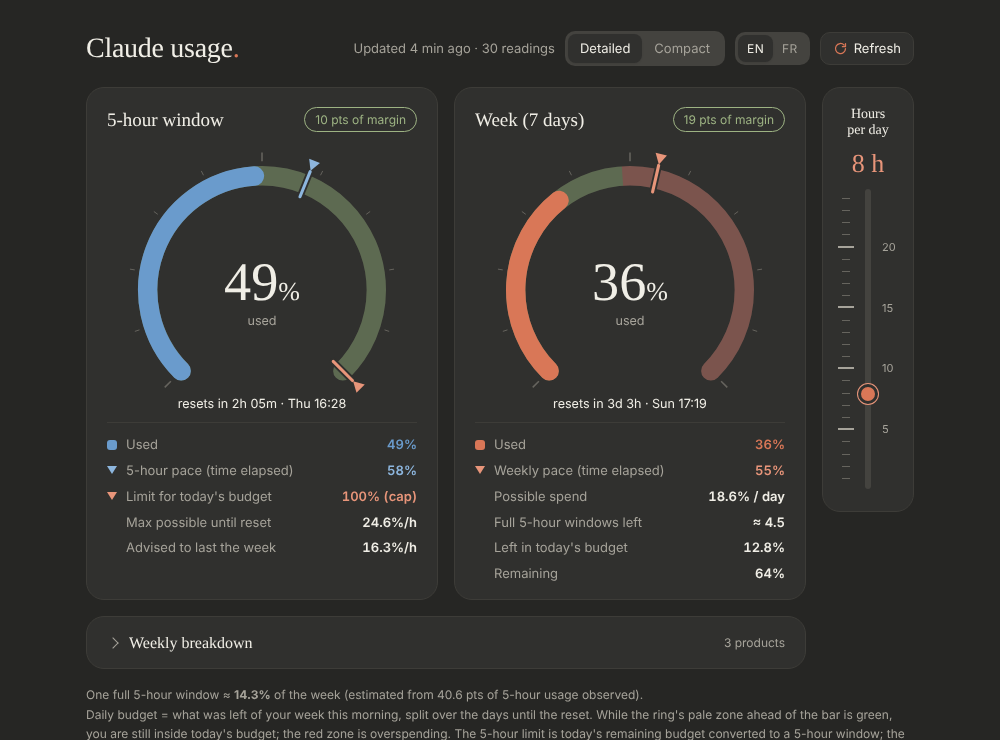
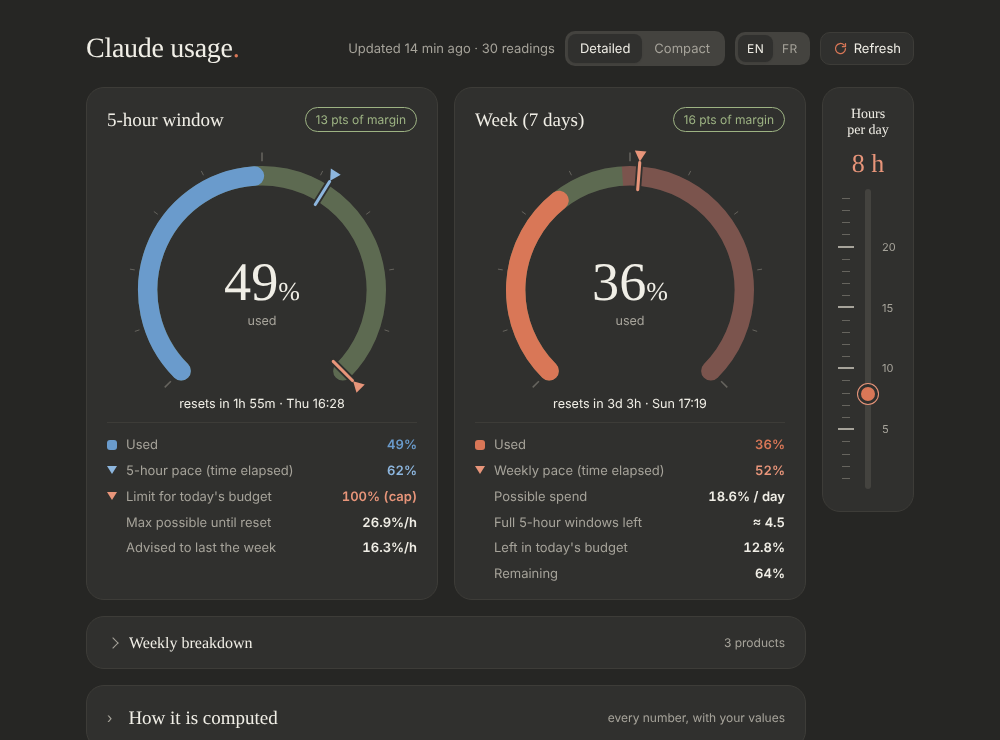
Make the weekly pace count working hours (hours-per-day slider)
A working day is the window [start, start + hours]; start is the first
reading of the day where usage rose, else 08:00. The weekly pace is the
share of the week's working hours already elapsed. Equations panel and
README updated.

Claude-Session: https://claude.ai/code/session_01F8m832QxDmb2GnzwzbQV6q

diff --git a/web/js/i18n.js b/web/js/i18n.js
@@ -71,14 +71,18 @@ window.CU = window.CU || {};
       "foot.limit": "Daily budget = what was left of your week this morning, split over the days until the reset. While the ring's pale zone ahead of the bar is green, you are still inside today's budget; the red zone is overspending. The 5-hour limit is today's remaining budget converted to a 5-hour window; the hourly pace spreads the daily budget over the hours you work (slider).",
       "formulas.title": "How it is computed",
       "formulas.hint": "every number, with your values",
-      "formulas.slider": "The hours-per-day slider only changes the row marked “slider” (the hourly pace). The two pace markers (5-hour and weekly) are pure elapsed time, so they never move with the slider; the green/red zones and the limits come from the daily budget, which does not depend on it either.",
+      "formulas.slider": "The hours-per-day slider changes the rows marked “slider”: the weekly pace (it counts working hours instead of calendar time) and the hourly pace. The 5-hour pace is real elapsed time, and the green/red zones and limits come from the daily budget, which does not depend on the slider.",
       "formulas.badge": "slider",
       "f.used.name": "Used (5 h / week)",
       "f.used.eq": "utilization % reported by Claude, for each window",
       "f.pace5.name": "5-hour pace",
       "f.pace5.eq": "(5 h − time left) / 5 h × 100",
       "f.pace7.name": "Weekly pace",
-      "f.pace7.eq": "(7 d − time left) / 7 d × 100",
+      "f.pace7.eq": "working hours elapsed this week / working hours in the week × 100 (a day = hours per day from the start time; 24 h = plain time)",
+      "f.start.name": "Start of your work day",
+      "f.start.eq": "first reading today where usage rose; 08:00 when there is none yet",
+      "f.start.auto": "(first activity)",
+      "f.start.def": "(default)",
       "f.ratio.name": "Cost of a 5-hour window",
       "f.ratio.eq": "r = % of the week used per 100 % of a 5-hour window",
       "f.ratio.est": "estimated from your readings",
@@ -175,14 +179,18 @@ window.CU = window.CU || {};
       "foot.limit": "Budget du jour = ce qui restait de ta semaine ce matin, réparti sur les jours jusqu'au reset. Tant que la zone pâle devant la barre est verte, tu restes dans le budget du jour ; la zone rouge, c'est un dépassement. La limite 5 h est le budget restant du jour converti en fenêtre 5 h ; le rythme horaire répartit le budget du jour sur les heures que tu travailles (curseur).",
       "formulas.title": "Comment c'est calculé",
       "formulas.hint": "chaque chiffre, avec tes valeurs",
-      "formulas.slider": "Le curseur d'heures par jour ne change que la ligne marquée « curseur » (le rythme horaire). Les deux marqueurs de rythme (5 h et semaine) ne dépendent que du temps écoulé : ils ne bougent donc jamais avec le curseur ; les zones vert/rouge et les limites viennent du budget du jour, qui n'en dépend pas non plus.",
+      "formulas.slider": "Le curseur d'heures par jour change les lignes marquées « curseur » : le rythme semaine (il compte les heures de travail au lieu du temps calendaire) et le rythme horaire. Le rythme 5 h est du vrai temps écoulé, et les zones vert/rouge et les limites viennent du budget du jour, qui ne dépend pas du curseur.",
       "formulas.badge": "curseur",
       "f.used.name": "Utilisé (5 h / semaine)",
       "f.used.eq": "% d'utilisation donné par Claude, pour chaque fenêtre",
       "f.pace5.name": "Rythme 5 h",
       "f.pace5.eq": "(5 h − temps restant) / 5 h × 100",
       "f.pace7.name": "Rythme semaine",
-      "f.pace7.eq": "(7 j − temps restant) / 7 j × 100",
+      "f.pace7.eq": "heures de travail écoulées cette semaine / heures de travail de la semaine × 100 (un jour = heures par jour à partir de l'heure de début ; 24 h = temps normal)",
+      "f.start.name": "Début de ta journée de travail",
+      "f.start.eq": "premier relevé du jour où la consommation a augmenté ; 08:00 s'il n'y en a pas encore",
+      "f.start.auto": "(première activité)",
+      "f.start.def": "(par défaut)",
       "f.ratio.name": "Coût d'une fenêtre 5 h",
       "f.ratio.eq": "r = % de la semaine consommé par 100 % d'une fenêtre 5 h",
       "f.ratio.est": "estimé sur tes relevés",

diff --git a/web/js/model.js b/web/js/model.js
@@ -27,6 +27,40 @@ window.CU = window.CU || {};
     return p.v > current ? 0 : p.v;                // a higher value means the week reset since: start from 0
   }
 
+  /* ---- working-time pace -------------------------------------------------------------------------------
+     A working day is the window [start, start + hours]. `start` is the first moment of that day when usage rose
+     (first reading showing consumption), or 08:00 when there is none. The weekly pace is the share of the week's
+     working hours that has already elapsed, instead of plain calendar time. */
+  const DEFAULT_START_H = 8;
+  function dayStarts(history) {
+    const out = {}, prev = {};
+    let last = null;
+    for (const r of history || []) {
+      const t = Date.parse(r.t);
+      if (isNaN(t)) continue;
+      const d = new Date(t), key = d.getFullYear() * 400 + d.getMonth() * 32 + d.getDate();
+      const rose = last && ((r.h5 != null && last.h5 != null && r.h5 > last.h5) || (r.d7 != null && last.d7 != null && r.d7 > last.d7));
+      if (rose && out[key] == null) { const m0 = new Date(t); m0.setHours(0, 0, 0, 0); out[key] = t - m0.getTime(); }
+      last = r;
+    }
+    return out;
+  }
+  function workPace(history, hours, weekStart, weekEnd, now) {
+    const starts = dayStarts(history);
+    const day = new Date(weekStart); day.setHours(0, 0, 0, 0);
+    let total = 0, elapsed = 0, startToday = null;
+    for (; day.getTime() < weekEnd; day.setDate(day.getDate() + 1)) {
+      const key = day.getFullYear() * 400 + day.getMonth() * 32 + day.getDate();
+      const auto = starts[key] != null, off = hours >= 24 ? 0 : (auto ? starts[key] : DEFAULT_START_H * H);
+      const a = day.getTime() + off, b = a + hours * H;
+      const lo = Math.max(a, weekStart), hi = Math.min(b, weekEnd);
+      if (hi > lo) { total += hi - lo; elapsed += Math.max(0, Math.min(hi, now) - lo); }
+      const today = new Date(now); today.setHours(0, 0, 0, 0);
+      if (day.getTime() === today.getTime()) startToday = { ms: a, auto: auto && hours < 24 };
+    }
+    return { pace: total > 0 ? clamp(elapsed / total * 100) : null, elapsedH: elapsed / H, totalH: total / H, startToday };
+  }
+
   CU.compute = function (D, now = Date.now(), opts = {}) {
     if (!D || !D.seven_day) return null;
     const ratio = D.ratio_estimate || D.ratio_default;   // % of the week one full 5-hour window costs
@@ -37,6 +71,9 @@ window.CU = window.CU || {};
     // not over every hour of the week. 24 = no assumption (the old behaviour).
     const hours = clamp(opts.hoursPerDay || 24, 1, 24);
     seven.sessionsLeft = seven.remaining / ratio;
+    const wp = seven.active ? workPace(D.history, hours, seven.reset.getTime() - SEVEN_D, seven.reset.getTime(), now) : null;
+    if (wp) seven.pace = wp.pace;                     // working-time pace replaces the calendar-time one
+    seven.work = wp;
 
     // Daily budget (like a data-plan app): what was left of the week when today began, split over the days
     // until the reset. Staying below `limit` = still inside today's budget.

diff --git a/web/js/views.js b/web/js/views.js
@@ -127,6 +127,7 @@ window.CU = window.CU || {};
   };
 
   /* ---------------- "how it is computed" panel: every equation, with your current numbers ---------------- */
+  const hhmm = ms => new Date(ms).toLocaleTimeString([], { hour: "2-digit", minute: "2-digit", hour12: false });
   CU.formulas = function (m, open) {
     const { five, seven } = m, H = 3600e3, dash = "—";
     const hl5 = five.left / H, dl7 = seven.left / (24 * H);
@@ -134,7 +135,8 @@ window.CU = window.CU || {};
     const rows = [
       ["used", "", "", `${p1(five.used)} / ${p1(seven.used)}`],
       ["pace5", "", `(5 h − ${n2(hl5)} h) / 5 h`, p1(five.pace)],
-      ["pace7", "", `(7 d − ${n2(dl7)} d) / 7 d`, p1(seven.pace)],
+      ["start", "", "", seven.work && seven.work.startToday ? hhmm(seven.work.startToday.ms) + " " + (seven.work.startToday.auto ? t("f.start.auto") : t("f.start.def")) : dash],
+      ["pace7", "slider", seven.work ? `${n2(seven.work.elapsedH)} h / ${n2(seven.work.totalH)} h` : "", p1(seven.pace)],
       ["ratio", "", m.ratioEstimated ? t("f.ratio.est") : t("f.ratio.def"), p1(m.ratio)],
       ["u0", "", "", p1(seven.startUsed)],
       ["days", "", "", n2(seven.daysLeft) + " d"],

diff --git a/README.md b/README.md
@@ -33,7 +33,7 @@ The first launch asks for a language (English / Français), then shows an arrow-
 
 ### The widget
 
-Gauges for the 5-hour window and the week, a compact/detailed switch, a collapsed per-product breakdown, and an **hours-per-day slider** on the side (1–24 h, long marks every 5 h): tell it how many hours a day you really use Claude and the advised hourly pace and the 5-hour limit are recomputed over those hours instead of over the nights too.
+Gauges for the 5-hour window and the week, a compact/detailed switch, a collapsed per-product breakdown, and an **hours-per-day slider** on the side (1–24 h, long marks every 5 h): tell it how many hours a day you really use Claude and the weekly pace counts those working hours (from your first request of the day, 08:00 by default) and the advised hourly pace is computed over them. A collapsed panel lists every equation (see below).
 
 ### Command-line shortcuts
 
@@ -57,6 +57,30 @@ python run.py --lang fr <command>       force the language
 - The widget also works opened as a plain file (`web/index.html`) but then cannot refresh by itself.
 
 The weekly-vs-5-hour ratio shown in the widget is estimated from your own consecutive readings (10 % until enough data exists).
+
+## How the numbers are computed
+
+The widget has a collapsed **How it is computed** panel that shows each equation with your current values. Same content here. Notation: *u5* / *u7* = % used in the 5-hour window / the week (as reported), *h* = the hours-per-day slider.
+
+| What | Equation |
+|---|---|
+| 5-hour pace (blue marker) | `(5 h − time left) / 5 h × 100` – real elapsed time |
+| Start of your work day | first reading of the day where usage rose (your first request), else 08:00 |
+| Weekly pace (orange marker, week ring) | `working hours elapsed this week / working hours in the week × 100` – a day is *h* hours from the start time; at 24 h it is plain calendar time |
+| Cost of a 5-hour window, *r* | % of the week consumed per 100 % of a 5-hour window, estimated from your consecutive readings (default 10 %) |
+| Week used at start of today, *u0* | weekly % at the last reading before local midnight (oldest reading if none; 0 if the week reset since) |
+| Days until reset, *D* | `(weekly reset − today 00:00) / 24 h` |
+| **Daily budget** *B* ("possible spend / day") | `(100 − u0) / D` |
+| Weekly limit now, *L7* (green/red boundary of the week ring) | `u0 + B` |
+| Left in today's budget | `max(0, L7 − u7)` |
+| 5-hour limit, *L5* (orange marker and green/red boundary of the 5-hour ring) | `u5 + (L7 − u7) × 100 / r`, capped at 100 |
+| **Advised per hour** (5-hour %/h) | `B / h × 100 / r` |
+| Max possible until reset | `(100 − u5) / hours left in the window` |
+| Full 5-hour windows left | `(100 − u7) / r` |
+| Per-product breakdown | `product share × u7 / 100` points of the weekly quota |
+| "Ahead / margin" pill | `used − pace`; beyond ±5 points it reads ahead / margin |
+
+**What the slider changes:** the weekly pace (working hours instead of calendar time) and the advised hourly pace. The 5-hour pace is real time, and the green/red zones come from the daily budget, which does not depend on the slider.
 
 ## Project layout
 
